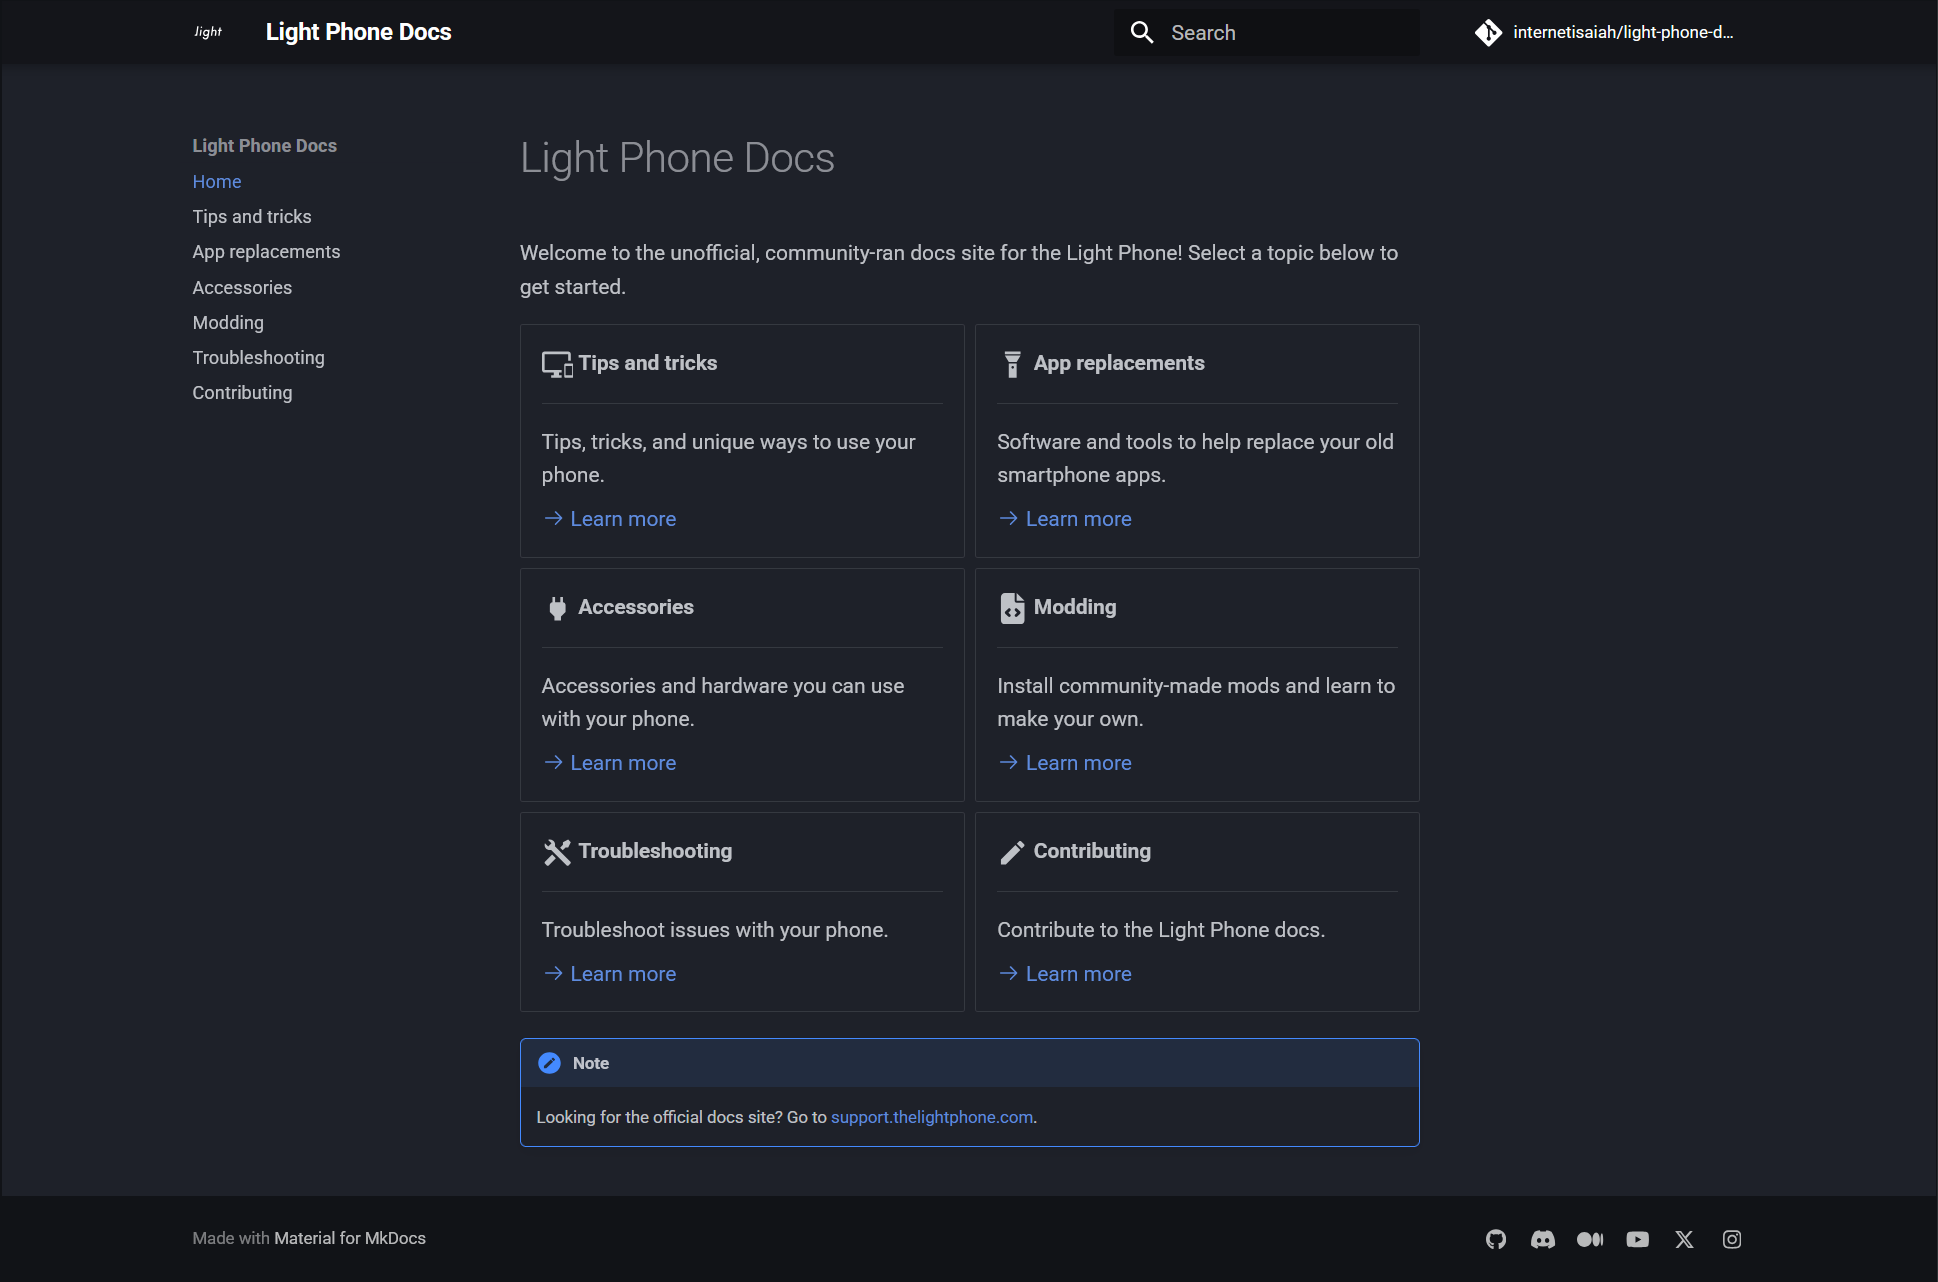
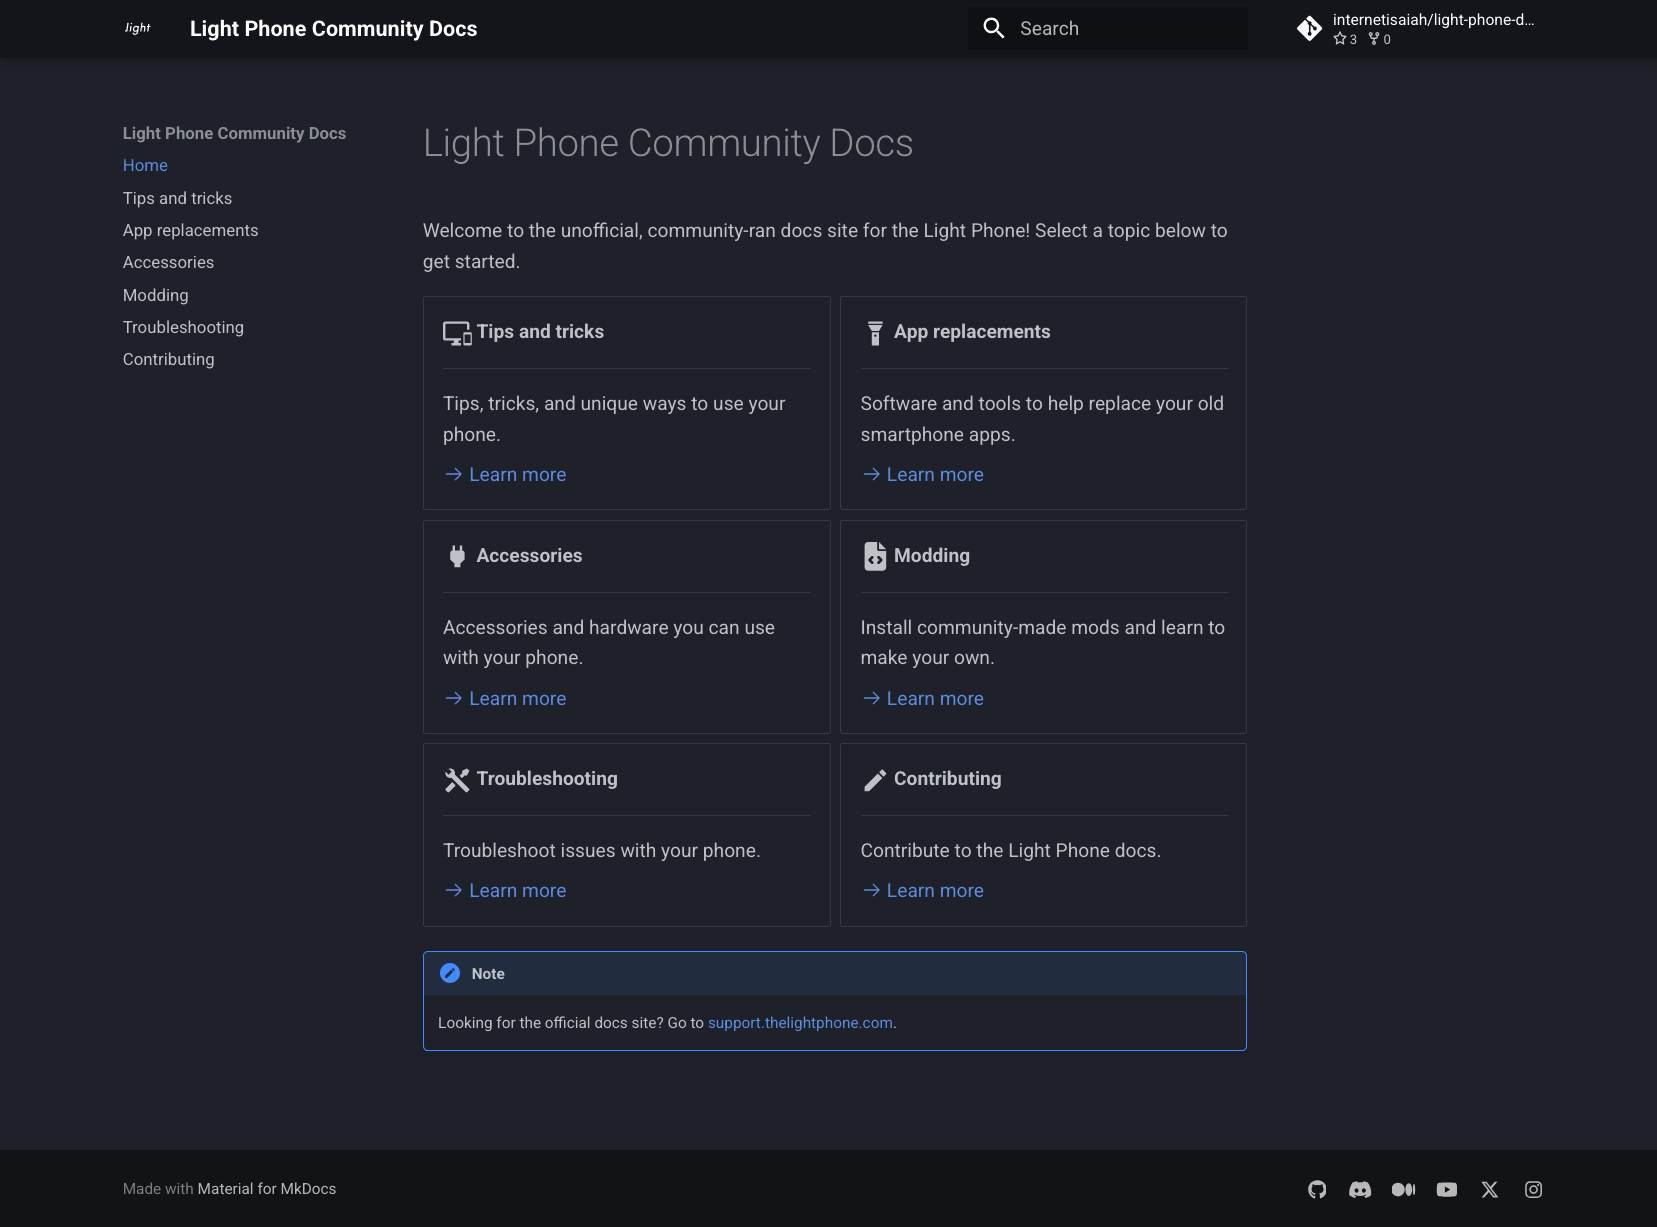
General fixes

diff --git a/docs/contributing.md b/docs/contributing.md
@@ -17,7 +17,7 @@ To make a change, you can use your web browser or the terminal. If you're new to
 
 === "Using a web browser"
 
-    #### Find the page on GitHub
+    #### Step 1.1: Find the page on GitHub
 
     In the [Light Phone Docs repository](https://github.com/internetisaiah/light-phone-docs), select `docs`.
 
@@ -27,7 +27,7 @@ To make a change, you can use your web browser or the terminal. If you're new to
 
     ![The files found in the 'docs' directory.](./assets/github/find-the-file.png)
 
-    #### Edit the file
+    #### Step 1.2: Edit the file
 
     Select **Edit this file**, then make your changes using [Markdown formatting](https://www.markdownguide.org/basic-syntax/).
 
@@ -40,7 +40,7 @@ To make a change, you can use your web browser or the terminal. If you're new to
 
     ![The 'troubleshooting.md' file showing the 'Commit changes' option.](./assets/github/commit-your-changes.png)
 
-    #### Propose your changes
+    #### Step 1.3: Propose your changes
 
     In the next window, choose **Create a new branch for this commit and start a pull request**. If you choose the first option, your changes will not be sent to the correct location, so double-check that the correct option is selected before continuing.
 
@@ -54,7 +54,7 @@ To make a change, you can use your web browser or the terminal. If you're new to
 
 === "Using the terminal"
     
-    #### Set up your local environment
+    #### Step 1.1: Set up your local environment
 
     !!! note
         If you've already forked and cloned the repository, continue to the [next step](#get-the-latest-changes).
@@ -92,7 +92,7 @@ To make a change, you can use your web browser or the terminal. If you're new to
     target  git@github.com:internetisaiah/light-phone-docs.git (push)
     ```
 
-    #### Get the latest changes
+    #### Step 1.2: Get the latest changes
 
     In the repository, the `develop` branch reflects the most up-to-date version of Light Phone Docs. Check out the `develop` branch and pull the latest updates into your local environment.
 
@@ -102,7 +102,7 @@ To make a change, you can use your web browser or the terminal. If you're new to
     git pull
     ```
 
-    #### Create a new branch
+    #### Step 1.3: Create a new branch
 
     When making changes to the docs, you'll always create a new branch. Use `git branch` along with the `-b` flag to create a new branch.
 
@@ -117,7 +117,7 @@ To make a change, you can use your web browser or the terminal. If you're new to
     Switched to a new branch 'fixing-typo-in-troubleshooting'
     ```
 
-    #### Edit the file
+    #### Step 1.4: Edit the file
 
     In your text editor, open the document you want to change, then make your changes using [Markdown formatting](https://www.markdownguide.org/basic-syntax/).
 
@@ -134,7 +134,7 @@ To make a change, you can use your web browser or the terminal. If you're new to
     no changes added to commit (use "git add" and/or "git commit -a")
     ```
 
-    #### Push your changes
+    #### Step 1.5: Push your changes
 
     Use `git add` to tell Git which changes you want to stage for your commit. The following command shows two options:
 
@@ -176,7 +176,7 @@ To make a change, you can use your web browser or the terminal. If you're new to
     branch 'fixing-typo-in-troubleshooting' set up to track 'origin/fixing-typo-in-troubleshooting'.
     ```
 
-    #### Create your pull request
+    #### Step 1.6: Create your pull request
 
     Go back to the [repository homepage](https://github.com/internetisaiah/light-phone-docs) and select **Compare & pull request**. You'll fill out the draft in the next step.
 

diff --git a/docs/index.md b/docs/index.md
@@ -1,4 +1,4 @@
-# Light Phone Docs
+# Light Phone Community Docs
 
 Welcome to the unofficial, community-ran docs site for the Light Phone! Select a topic below to get started.
 
@@ -10,7 +10,7 @@ Welcome to the unofficial, community-ran docs site for the Light Phone! Select a
 
     Tips, tricks, and unique ways to use your phone.
 
-    [:octicons-arrow-right-24: Learn more](./tips_and_tricks.md)
+    [:octicons-arrow-right-24: Learn more](./tips.md)
 
 -   :material-flashlight:{ .lg .middle } __App replacements__
 
@@ -18,7 +18,7 @@ Welcome to the unofficial, community-ran docs site for the Light Phone! Select a
 
     Software and tools to help replace your old smartphone apps.
 
-    [:octicons-arrow-right-24: Learn more](./app_replacements.md)
+    [:octicons-arrow-right-24: Learn more](./app-replacements.md)
 
 -   :material-power-plug:{ .lg .middle } __Accessories__
 

diff --git a/README.md b/README.md
@@ -1,6 +1,6 @@
-# Light Phone Docs
+# Light Phone Community Docs
 
-These are the source files used to build the [(un)official Light Phone docs](https://internetisaiah.github.io/light-phone-docs/). If you'd like to help improve the docs, you can:
+These are the source files used to build the unofficial [Light Phone Community Docs](https://internetisaiah.github.io/light-phone-docs/). If you'd like to help improve the docs, you can:
 
 - [Report an issue](https://github.com/internetisaiah/light-phone-docs/issues/new?assignees=&labels=bug&projects=&template=report_an_issue.md&title=)
 - [Request a feature](https://github.com/internetisaiah/light-phone-docs/issues/new?assignees=&labels=enhancement&projects=&template=request_a_feature.md&title=)
